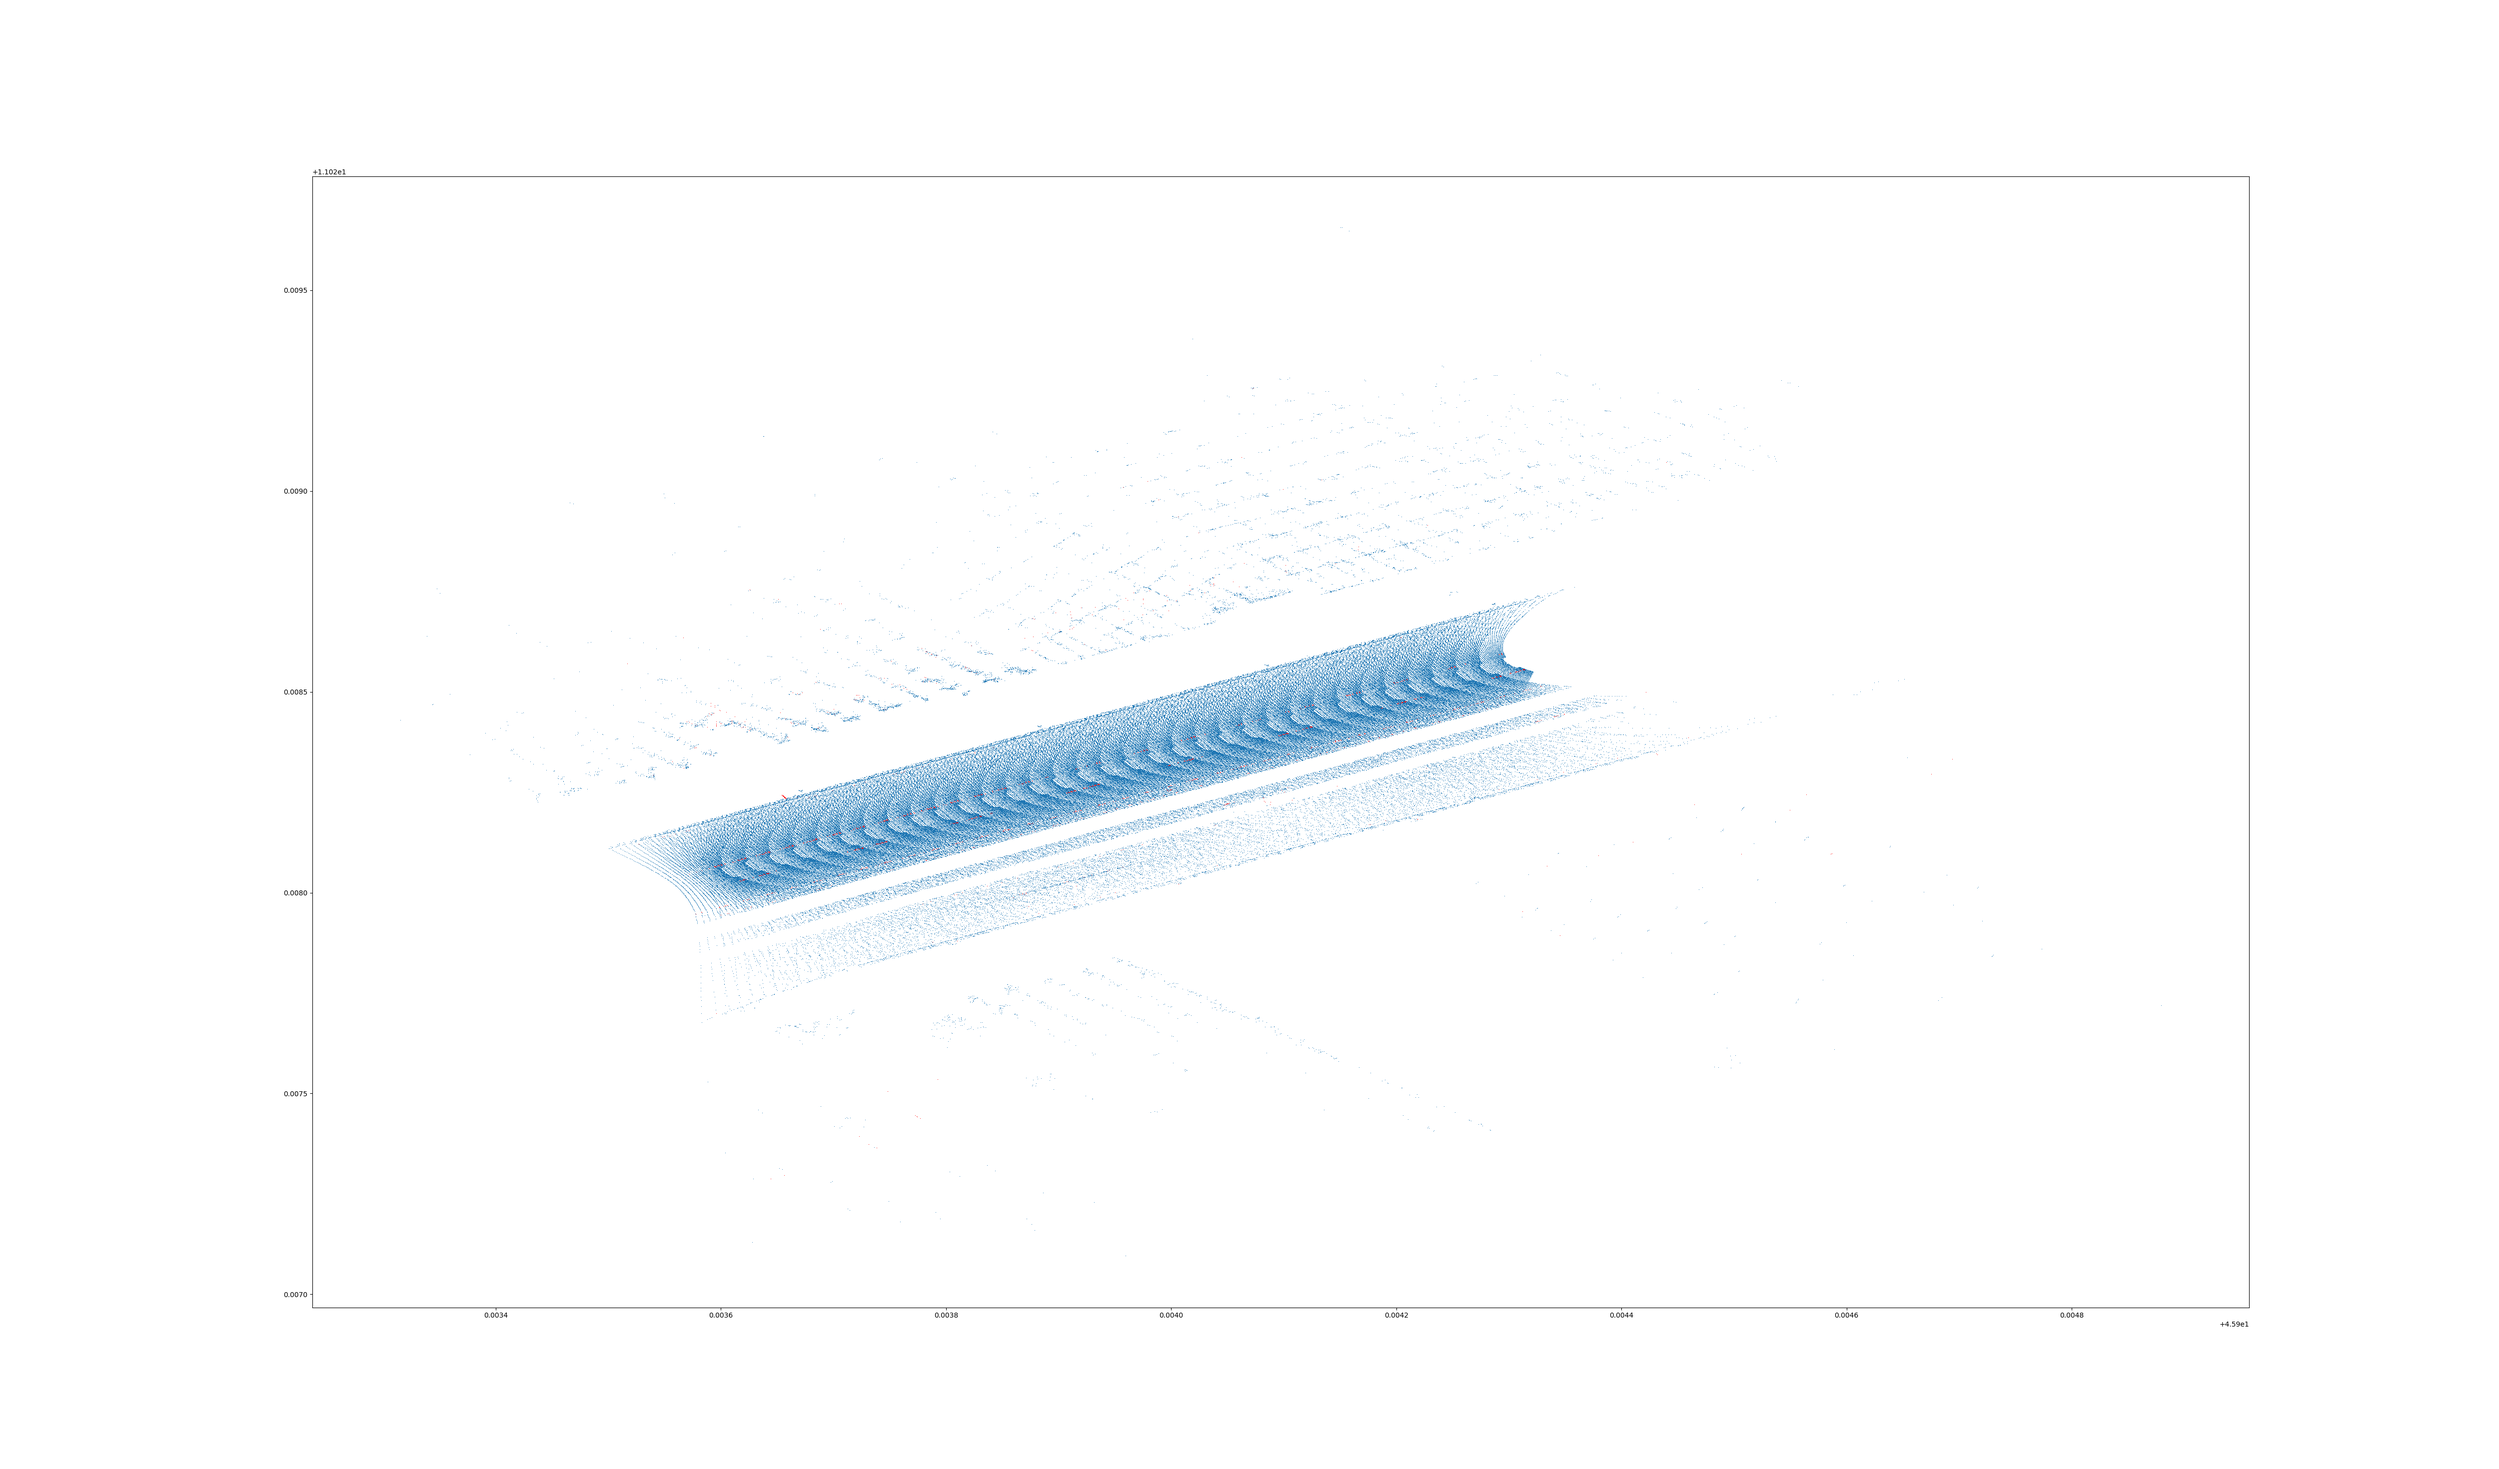
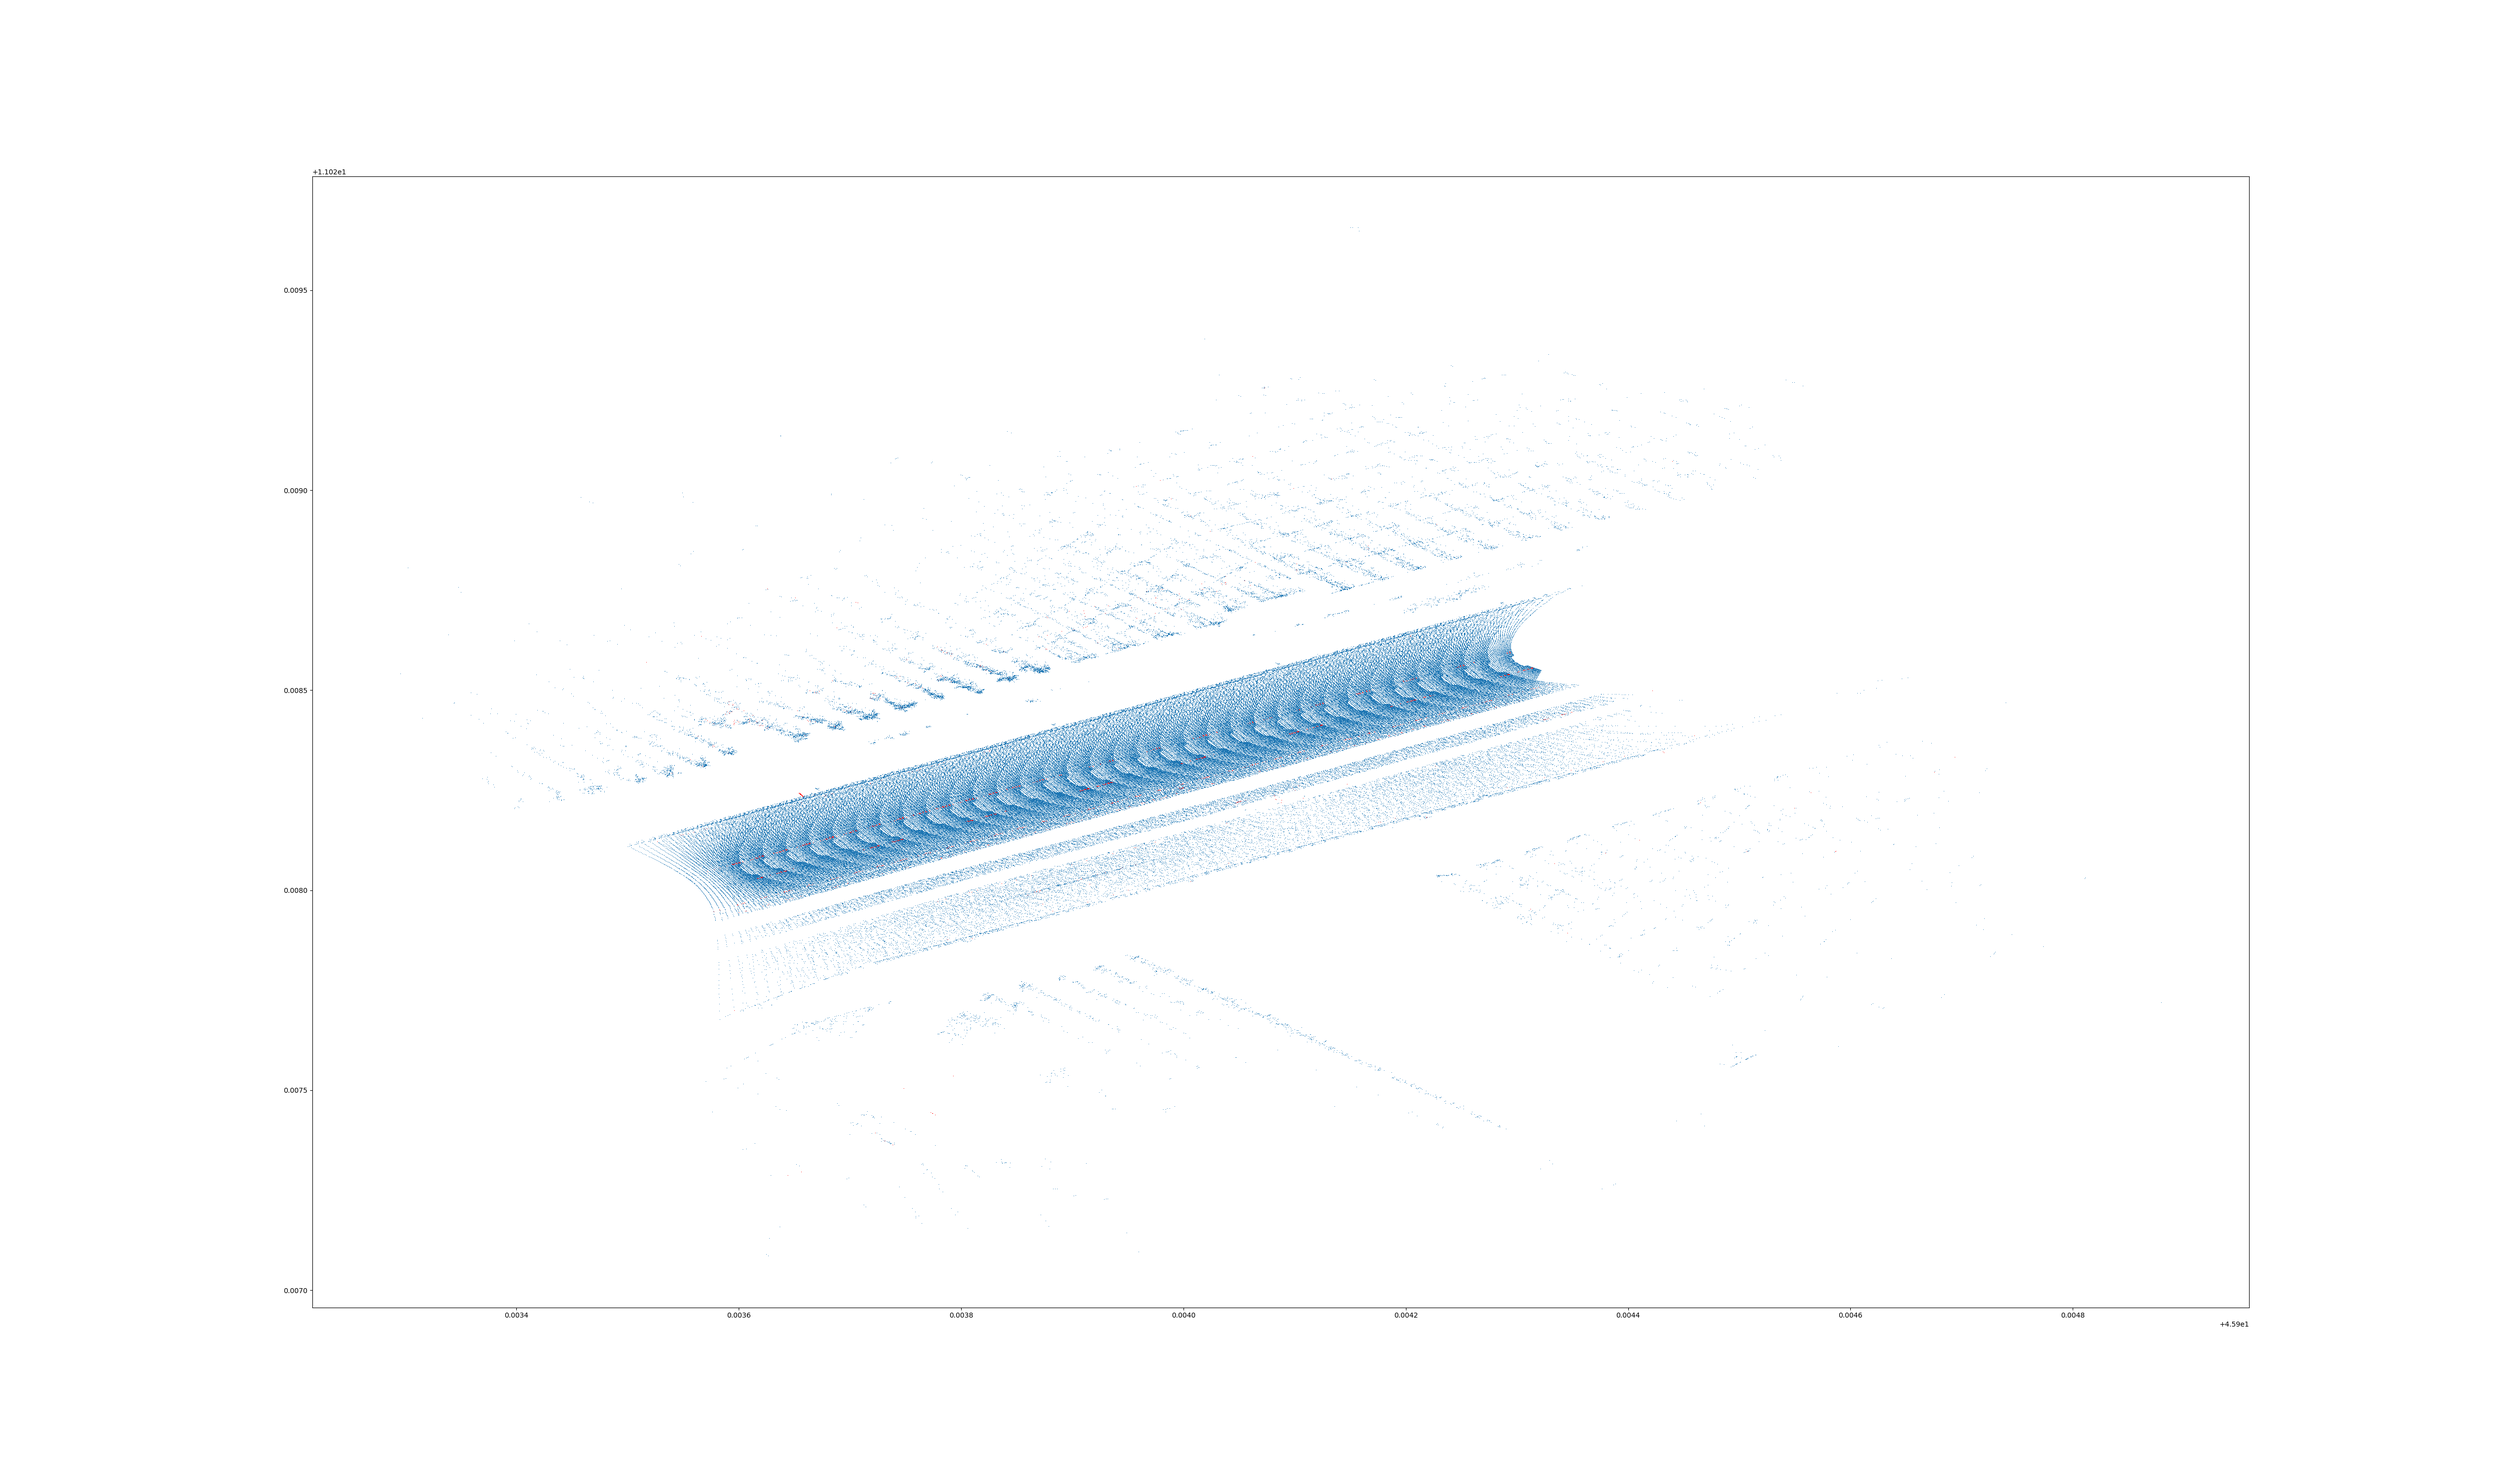
update 3D plot

Changed region(s): [[0.2496, 0.4024, 0.624, 0.65]]

diff --git a/lane_detect.py b/lane_detect.py
@@ -19,13 +19,13 @@ def load_data():
 
 
 def road_serface_detect(data, z):
-    z_range = max(z) - min(z)
-    min_alt = np.median(z) - 0.04 * z_range
-    max_alt = np.median(z) + 0.02 * z_range
+    min_alt = np.median(z) - 2
+    max_alt = np.median(z) + 0.3
     road_data = []
     for d in data:
         if min_alt <= d[2] <= max_alt:
             road_data.append(d)
+    print(len(road_data))
     return road_data
 
 
@@ -47,16 +47,21 @@ if __name__ == '__main__':
 
     fig = plt.figure(figsize=(50, 29.4))
     ax = plt.axes(projection='3d')
+    ax.set_xlim(min(x), max(x))
+    ax.set_ylim(min(y), max(y))
+    ax.set_zlim3d(200, 234)
     ax.plot(x, y, z, ',')
     plt.savefig('test99.png')
 
 
     fig = plt.figure(figsize=(50, 29.4))
     ax = plt.axes(projection='3d')
-    ax.set_xlim(min(road_x), max(road_x))
-    ax.set_ylim(min(road_y), max(road_y))
-    ax.set_zlim3d(230, 250)
-    ax.plot(x, y, z, ',')
+    rangex = max(road_x) - min(road_x)
+    rangey = max(road_y) - min(road_y)
+    ax.set_xlim(min(road_x), max(road_x) - 0.1*rangex)
+    ax.set_ylim(min(road_y)+0.4*rangey, max(road_y) - 0.8*rangey)
+    ax.set_zlim3d(200, 234)
+    ax.plot(road_x, road_y, road_z, ',')
     plt.savefig('test2.png')
 
     lane_data = lane_detect(data)
